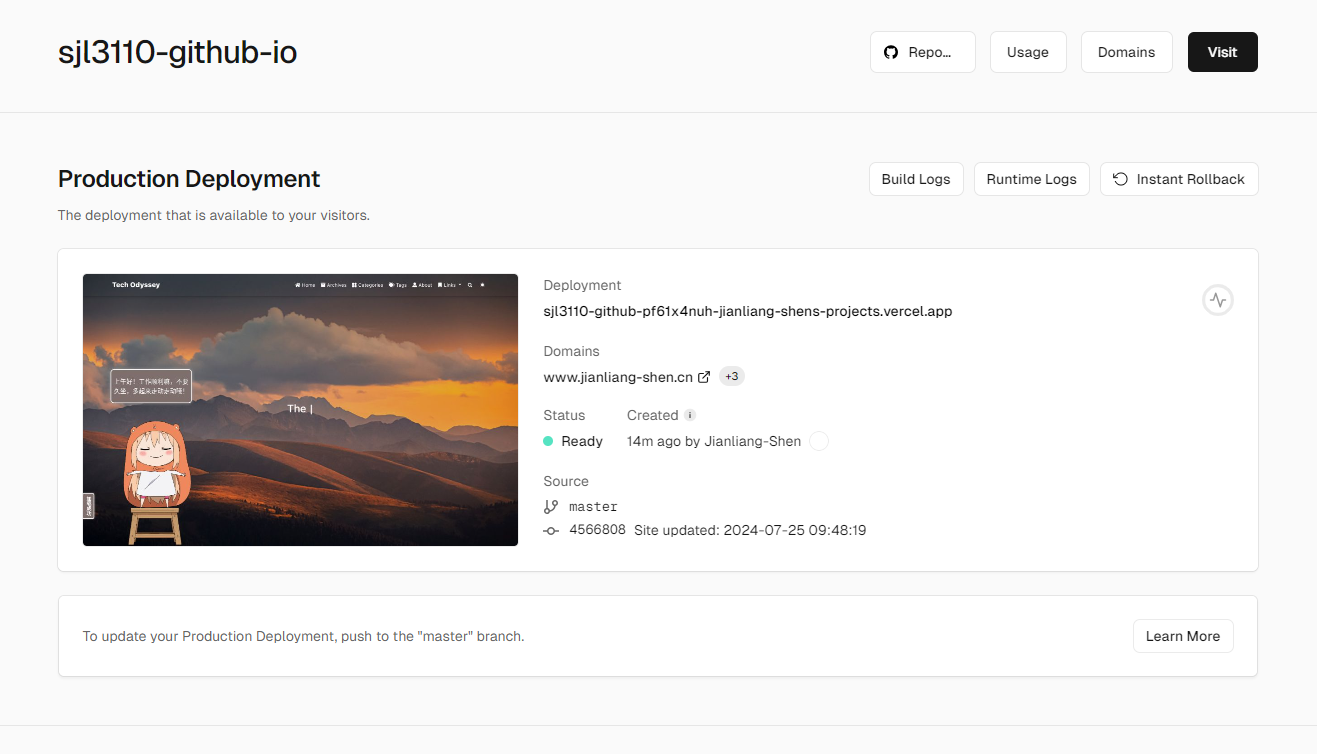
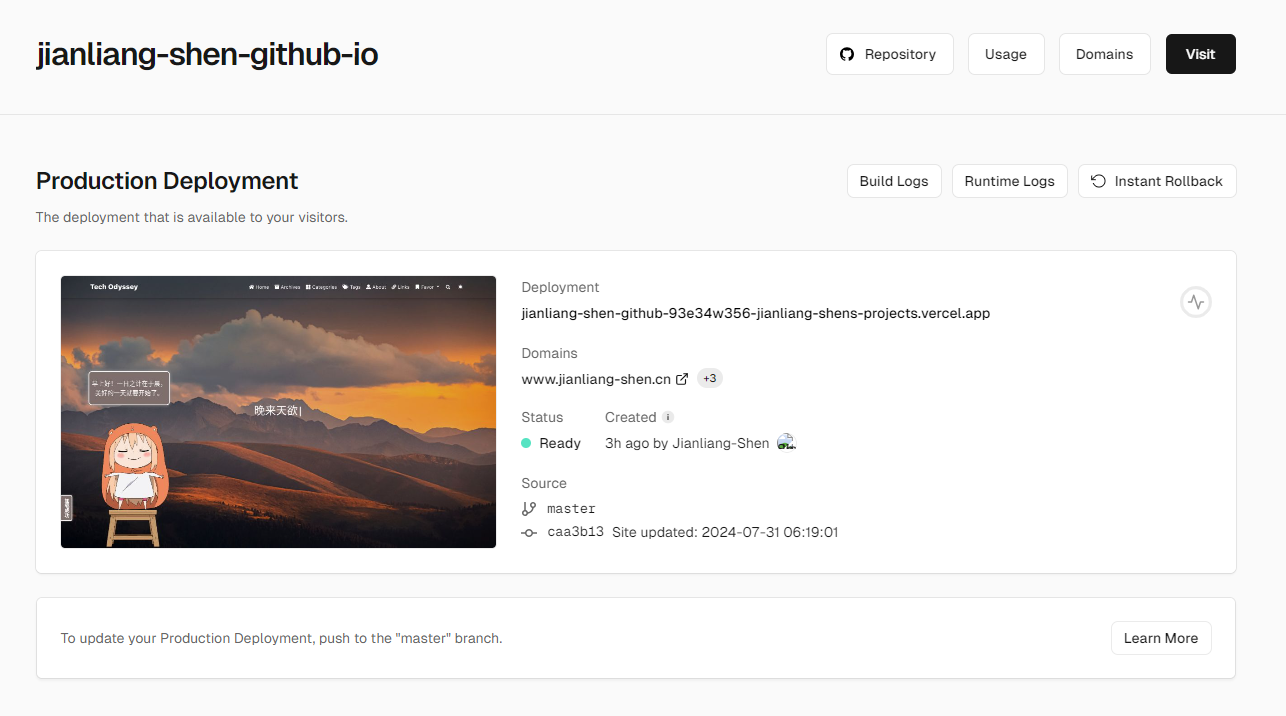
Update vercel and ssl

diff --git a/source/_posts/SW/hexo-vercel.md b/source/_posts/SW/hexo-vercel.md
@@ -1,6 +1,6 @@
 ---
 layout: post
-title: 使用 Vercel 部署博客
+title: 使用 Vercel 部署博客和设置 SSL 证书
 date: 2024-07-25 18:08:04
 index_img: /img/post_pics/vercel/index.png
 tags: 
@@ -19,18 +19,40 @@ categories:
 - [Vercel 部署高级用法教程](https://hexo.fluid-dev.com/posts/hexo-vercel/)
 - [vercel](https://vercel.com/)
 
-导入项目：
+首先创建一个新的github.io仓库，推送博客。部署好后，即可点击github.io链接访问page。在原先的方案中，我使用GitHub DNS进行域名解析，在仓库的page添加domain即可。
 
-![](/img/post_pics/vercel/prj.png)
+![Github DNS](/img/post_pics/vercel/github_dns.jpg)
 
-设置域名：
+在无证书情况下，可以访问域名（不能用https，即www），但是经常报DNS解析有错，这样就没法使能https，解决不了证书问题。
 
-![](/img/post_pics/vercel/domain.png)
+![DNS error](/img/post_pics/vercel/github_dns_error.jpg)
 
-增加域名解析：
+解决：改用新的vercel + ssl模式，停用掉github DNS。
 
-![](/img/post_pics/vercel/ali.png)
+## 申请免费证书
 
-设置区域：
+![CA](/img/post_pics/vercel/ca.jpg)
 
-![](/img/post_pics/vercel/function.png)
+申请后绑定域名，会自动增加解析：
+
+![CA 证书域名解析](/img/post_pics/vercel/ssl_dns.jpg)
+
+
+## Vercel 导入项目
+
+![导入github.io项目](/img/post_pics/vercel/prj.png)
+
+## 设置域名
+
+这里填域名的时候会要求去设置域名解析，解析后就可以验证DNS
+
+![vercel域名解析](/img/post_pics/vercel/ali.png)
+
+![域名](/img/post_pics/vercel/domain.png)
+
+
+## 设置区域
+
+发现解析后需要梯子才能访问，把区域设置为香港：
+
+![设置区域](/img/post_pics/vercel/function.png)

diff --git a/source/_posts/SW/Deploy-Blog-on-Server-and-URL.md b/source/_posts/SW/Deploy-Blog-on-Server-and-URL.md
@@ -92,7 +92,7 @@ npm install hexo-deployer-git --save
 ``` yml
 deploy:
   type: git
-  repository: git@github.com:sjl3110/sjl3110.github.io.git
+  repository: git@github.com:Jianliang-Shen/Jianliang-Shen.github.io.git
   branch: master
 
 ```
